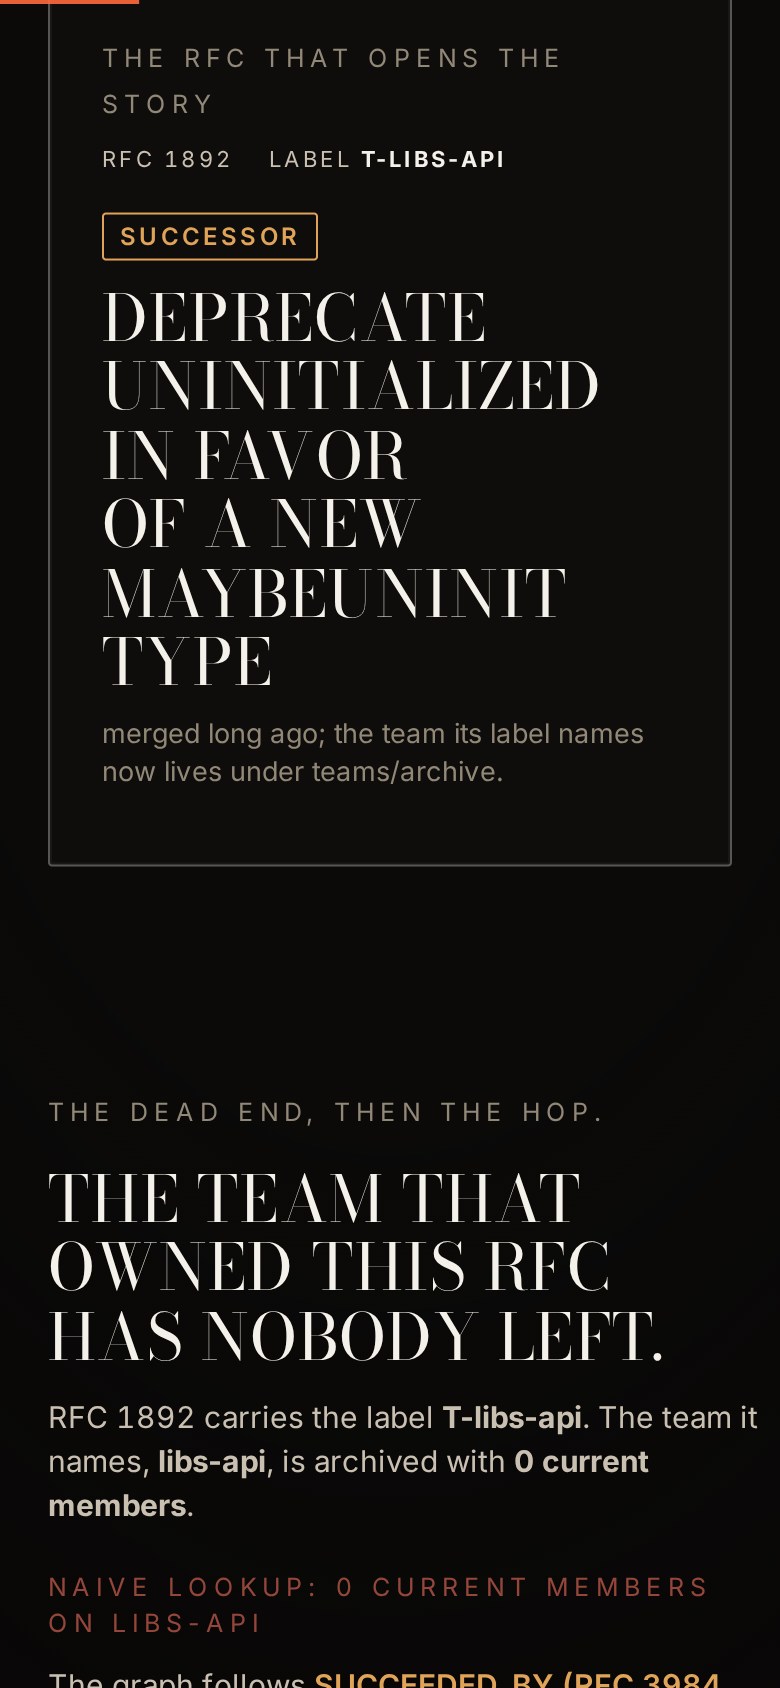
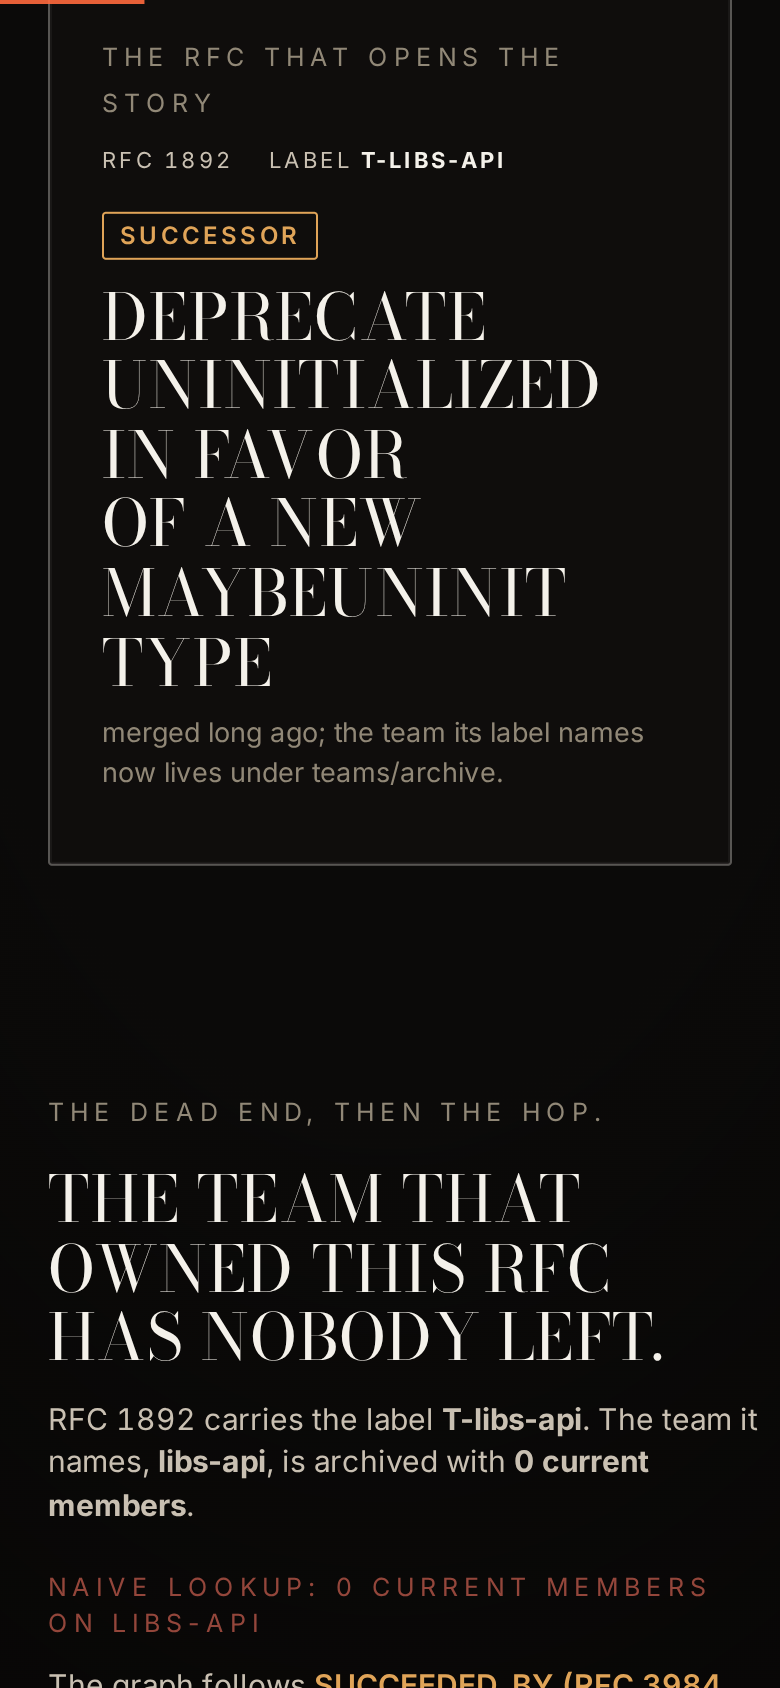
Part 7 stage 9.1: display weight on the two exceptions (hero h1, plate title) after the live check caught the specificity miss; captures re-shot

diff --git a/site/assets/site.css b/site/assets/site.css
@@ -296,7 +296,7 @@ nav.site a:hover, nav.site a[aria-current="page"] { color: var(--paper); border-
   position: relative; }
 .s1-hair::after { content: ""; position: absolute; left: 50%; top: -2px; width: 5px; height: 5px;
   margin-left: -2.5px; background: var(--accent); transform: rotate(45deg); }
-.scene-arrival h1 { font-family: var(--display); text-transform: uppercase; font-weight: 400;
+.scene-arrival h1 { font-family: var(--display); text-transform: uppercase; font-weight: 500;
   font-size: clamp(46px, 7vw, 116px); letter-spacing: 0.02em; line-height: 1.05; max-width: 17ch;
   margin-left: auto; margin-right: auto; }
 .scene-arrival .sub { text-align: center; margin: 0 auto 14px; max-width: 54ch; }
@@ -304,7 +304,7 @@ nav.site a:hover, nav.site a[aria-current="page"] { color: var(--paper); border-
 .rfc-card { background: rgba(16, 14, 12, 0.72); border: 1px solid var(--line-strong); border-radius: 2px;
   box-shadow: inset 0 0 0 1px rgba(244, 241, 234, 0.05); text-align: left; margin: 0 auto 28px; padding: 20px 26px; }
 .rfc-card-row { text-transform: uppercase; letter-spacing: 0.14em; font-size: 11px; }
-.rfc-title { font-weight: 400; text-transform: none; letter-spacing: 0.005em; }
+.rfc-title { font-weight: 500; text-transform: none; letter-spacing: 0.005em; }
 .cta-row { justify-content: center; }
 .btn { border-radius: 0; text-transform: uppercase; letter-spacing: 0.18em; font-size: 11px;
   font-weight: 600; padding: 12px 26px; }
